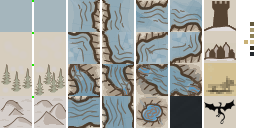
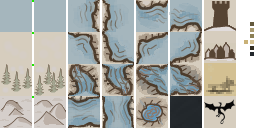
Added dragon tile. Tile enhancements.

diff --git a/src/main/java/io/gameoftrades/ui/KaartDisplay.java b/src/main/java/io/gameoftrades/ui/KaartDisplay.java
@@ -43,7 +43,7 @@ public class KaartDisplay extends JPanel implements PlanControl {
     private HandelsPositie positie;
 
     private List<HandelsPositieListener> listeners = new ArrayList<>();
-    
+
     private List<Overlay> overlays = new ArrayList<>();
 
     private PositieOverlay positieOverlay = new PositieOverlay(positie);
@@ -83,7 +83,7 @@ public class KaartDisplay extends JPanel implements PlanControl {
         overlays.clear();
         repaint();
     }
-    
+
     public void addOverlay(Overlay ov) {
         overlays.add(ov);
     }
@@ -125,7 +125,7 @@ public class KaartDisplay extends JPanel implements PlanControl {
         if (kaart != null) {
             tekenKaart(g);
         }
-        for (Overlay ov:overlays) {
+        for (Overlay ov : overlays) {
             ov.draw(g, font, tilesize, tilehalfwidth, fontSize);
         }
     }
@@ -155,6 +155,8 @@ public class KaartDisplay extends JPanel implements PlanControl {
 
     private BufferedImage toTile(TerreinType[][] t, boolean odd) {
         switch (t[1][1]) {
+        case DRAAK:
+            return getTile(6, 3);
         case BERG:
             return getTile(odd ? 0 : 1, 3);
         case BOS:

diff --git a/src/main/java/io/gameoftrades/model/kaart/TerreinType.java b/src/main/java/io/gameoftrades/model/kaart/TerreinType.java
@@ -23,7 +23,9 @@ public enum TerreinType {
     /** het overzichtelijke grasland */
     GRASLAND(true, 1, 'G'),
     /** stad, waar de handel is. */
-    STAD(true, 1, 'S');
+    STAD(true, 1, 'S'),
+    /** de gevaarlijke draak. */
+    DRAAK(true,15,'D');
 
     private boolean toegankelijk;
     private int bewegingspunten;
